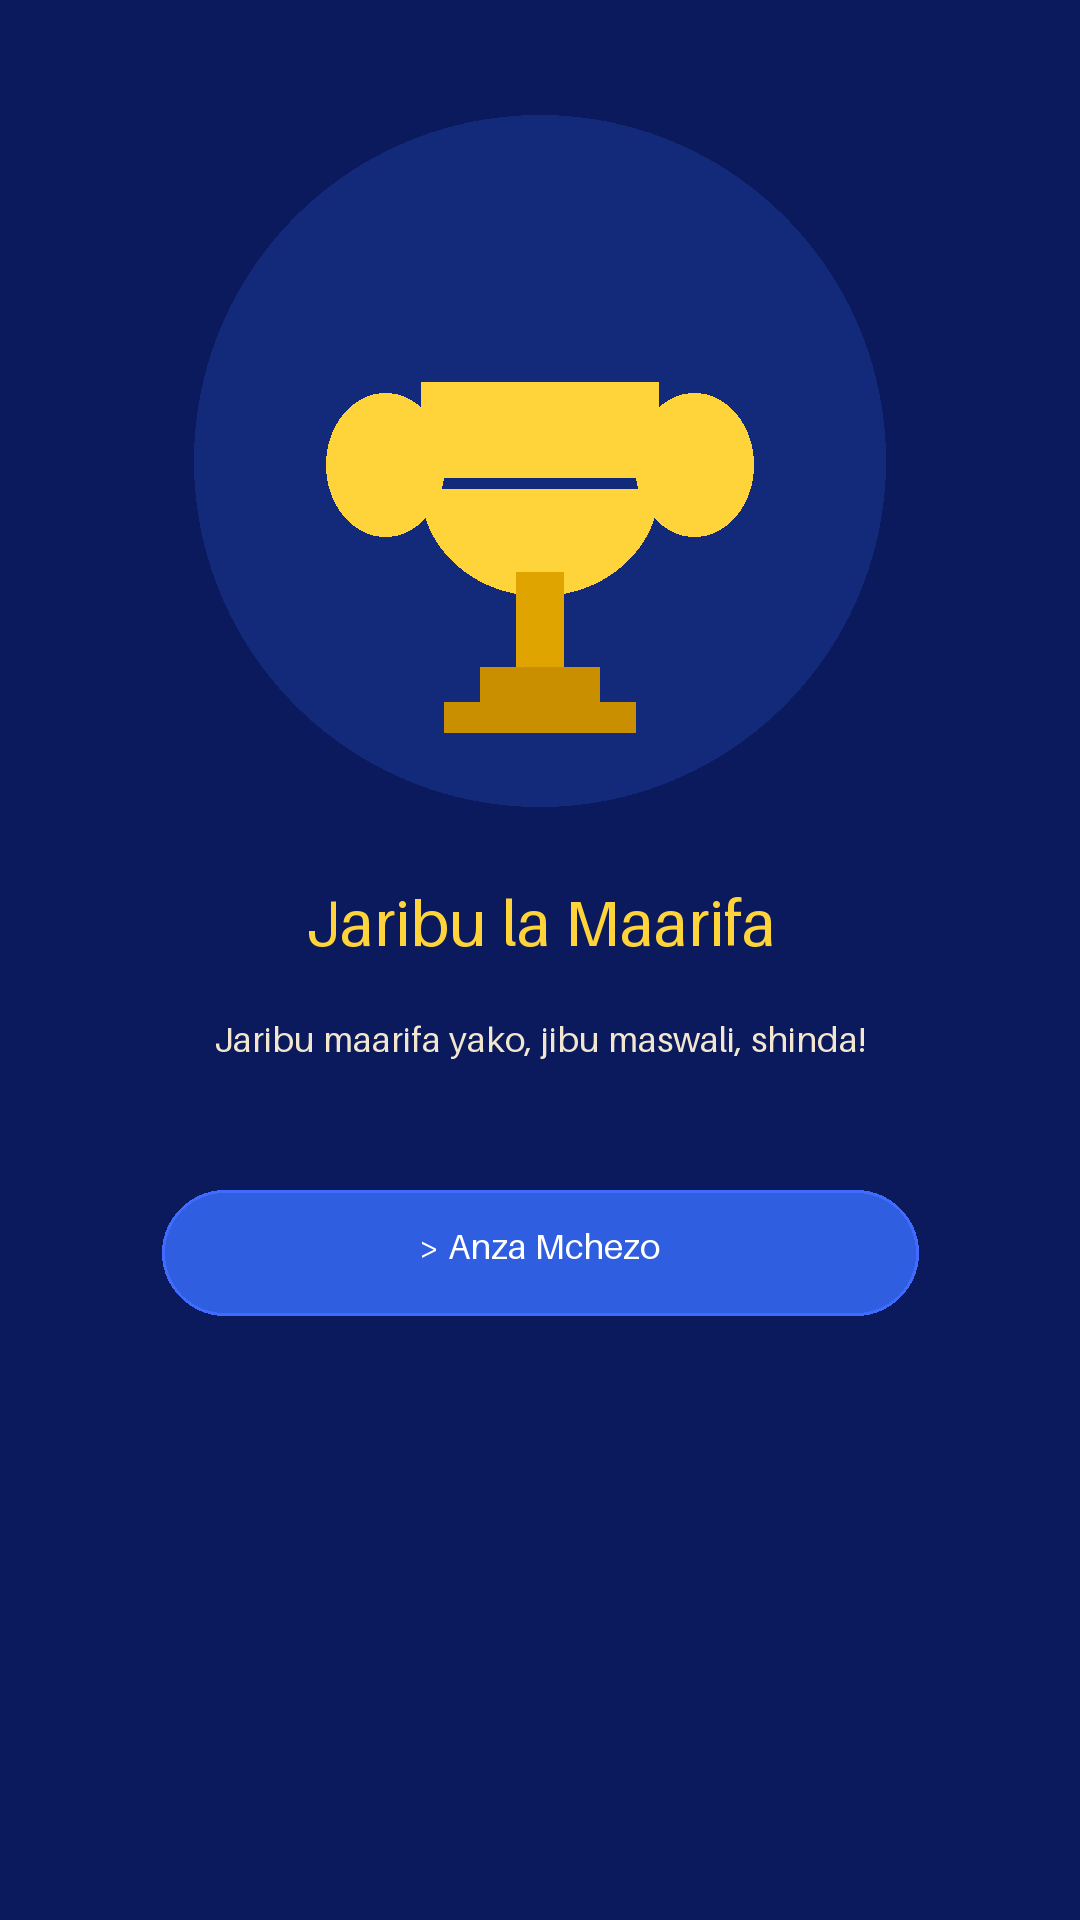
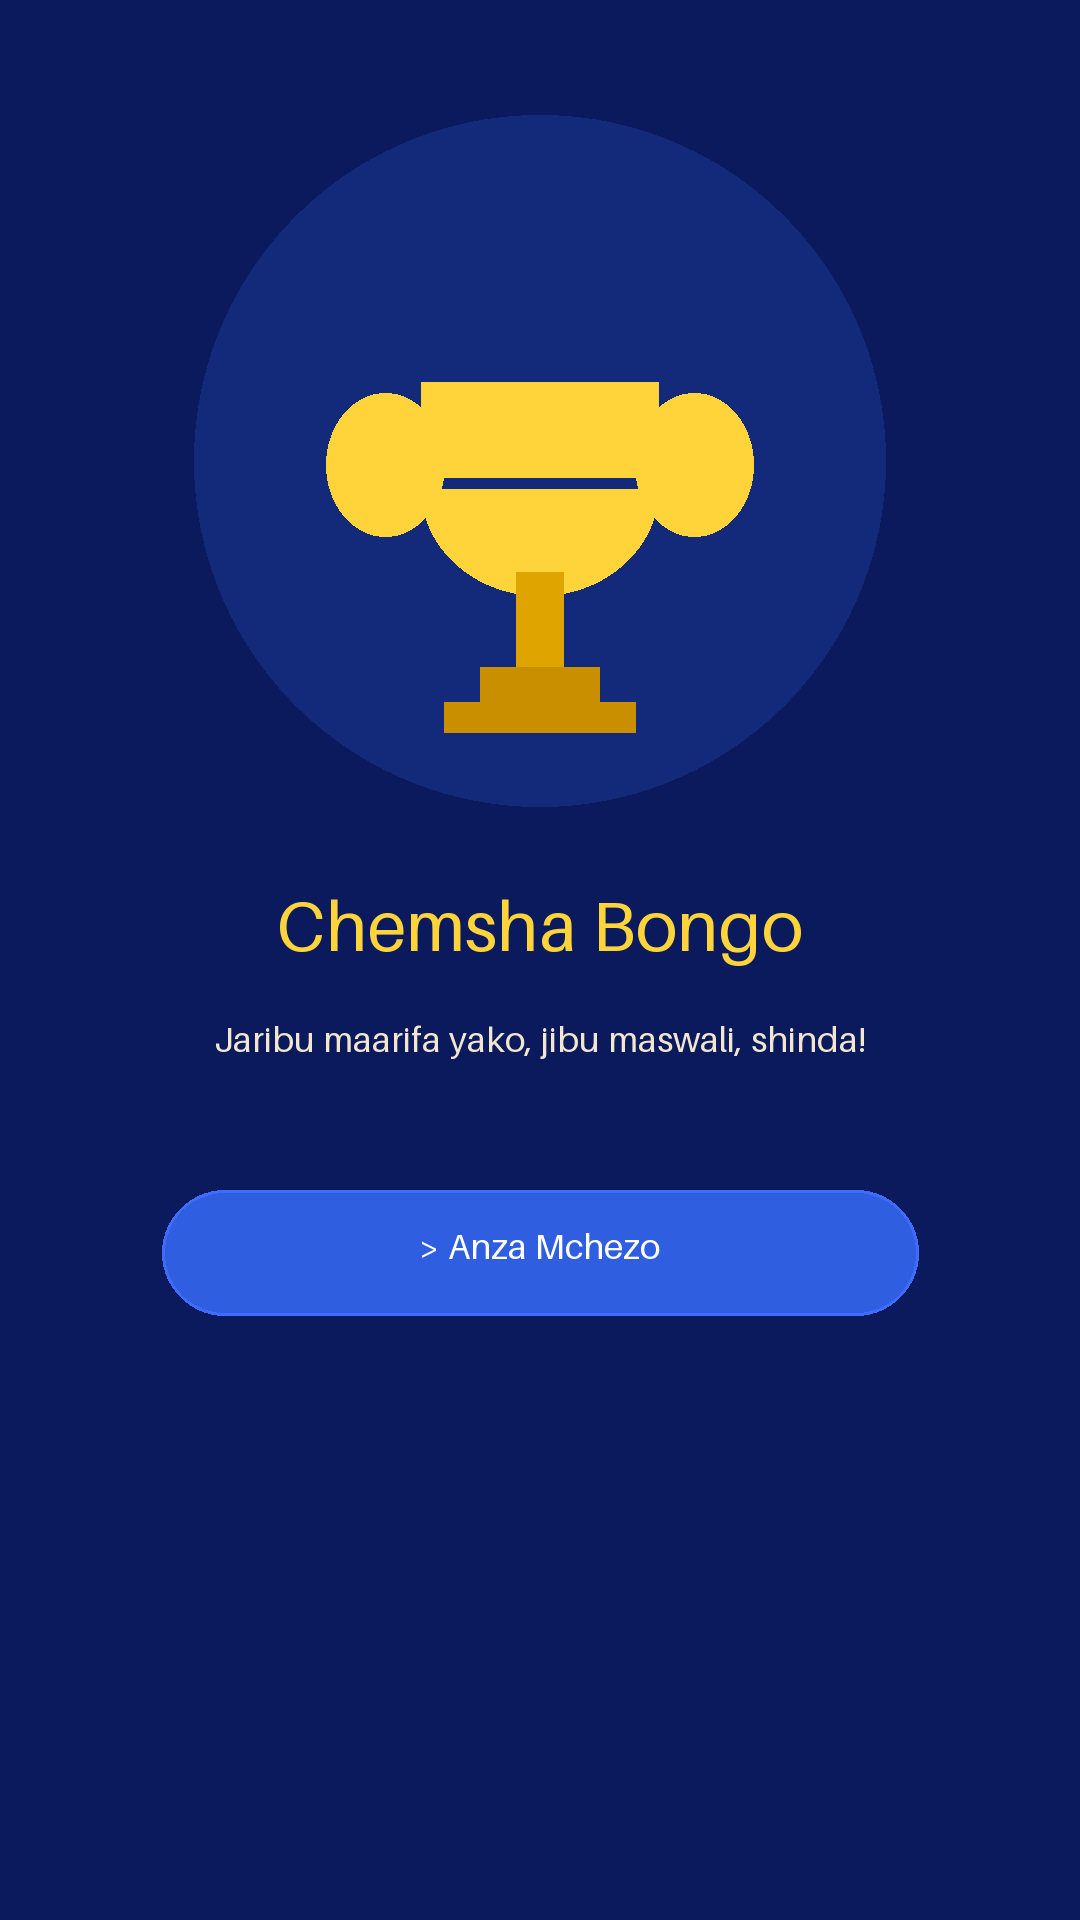
Add files via upload

Changed region(s): [[0.2444, 0.4688, 0.7639, 0.5]]

diff --git a/privacy.html b/privacy.html
@@ -3,7 +3,7 @@
 <head>
 <meta charset="UTF-8">
 <meta name="viewport" content="width=device-width, initial-scale=1.0">
-<title>Sera ya Faragha - Jaribu la Maarifa</title>
+<title>Sera ya Faragha - Chemsha Bongo</title>
 <style>
   body{font-family:Arial,sans-serif;max-width:700px;margin:40px auto;padding:0 20px;line-height:1.6;color:#222;}
   h1{color:#0A1A5C;}
@@ -13,10 +13,10 @@
 </head>
 <body>
 
-<h1>Sera ya Faragha - Jaribu la Maarifa</h1>
+<h1>Sera ya Faragha - Chemsha Bongo</h1>
 <p>Tarehe ya mwisho ya kubadilishwa: 2026</p>
 
-<p>Sera hii inaelezea jinsi programu ya "Jaribu la Maarifa" inavyoshughulikia taarifa za watumiaji wake.</p>
+<p>Sera hii inaelezea jinsi programu ya "Chemsha Bongo" inavyoshughulikia taarifa za watumiaji wake.</p>
 
 <h2>1. Taarifa Tunazokusanya</h2>
 <p>Programu hii <strong>haikusanyi jina lako, barua pepe, nambari ya simu, au taarifa nyingine za kibinafsi zinazoweza kukutambulisha</strong>. Takwimu za mchezo (kama alama zako bora, mafanikio uliyopata, na mapendeleo yako ya mchezo) zinahifadhiwa <strong>pekee kwenye kifaa chako</strong> (localStorage), na hazitumwi kwenye seva yoyote.</p>
@@ -36,7 +36,7 @@
 <h2>6. Wasiliana Nasi</h2>
 <p>Kama una maswali kuhusu sera hii ya faragha, tafadhali wasiliana nasi kupitia maelezo yaliyotolewa kwenye ukurasa wa programu kwenye Google Play.</p>
 
-<footer>&copy; 2026 Jaribu la Maarifa</footer>
+<footer>&copy; 2026 Chemsha Bongo</footer>
 
 </body>
 </html>
